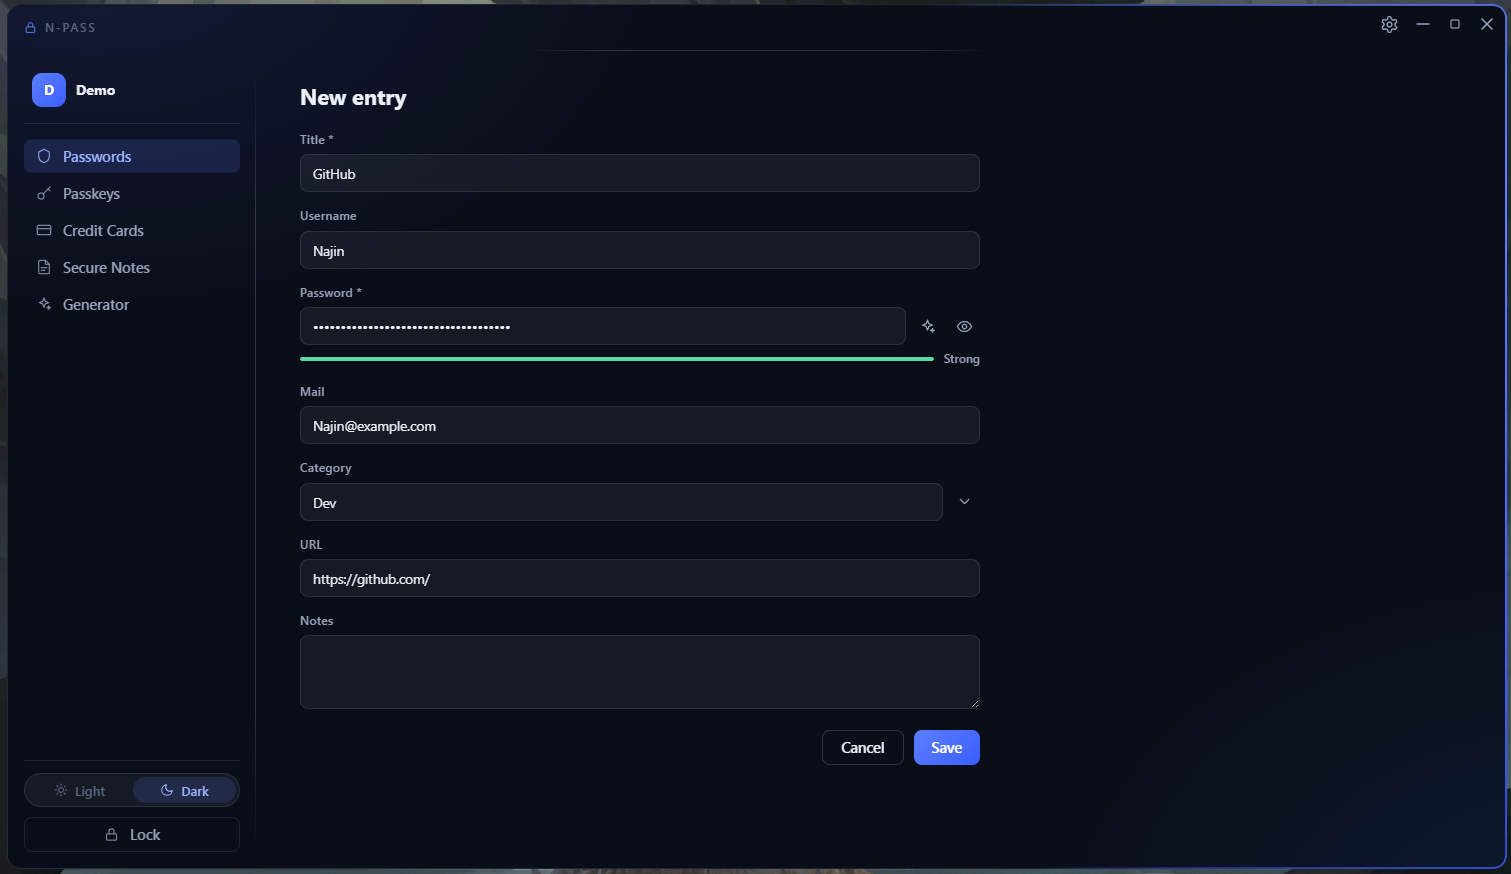
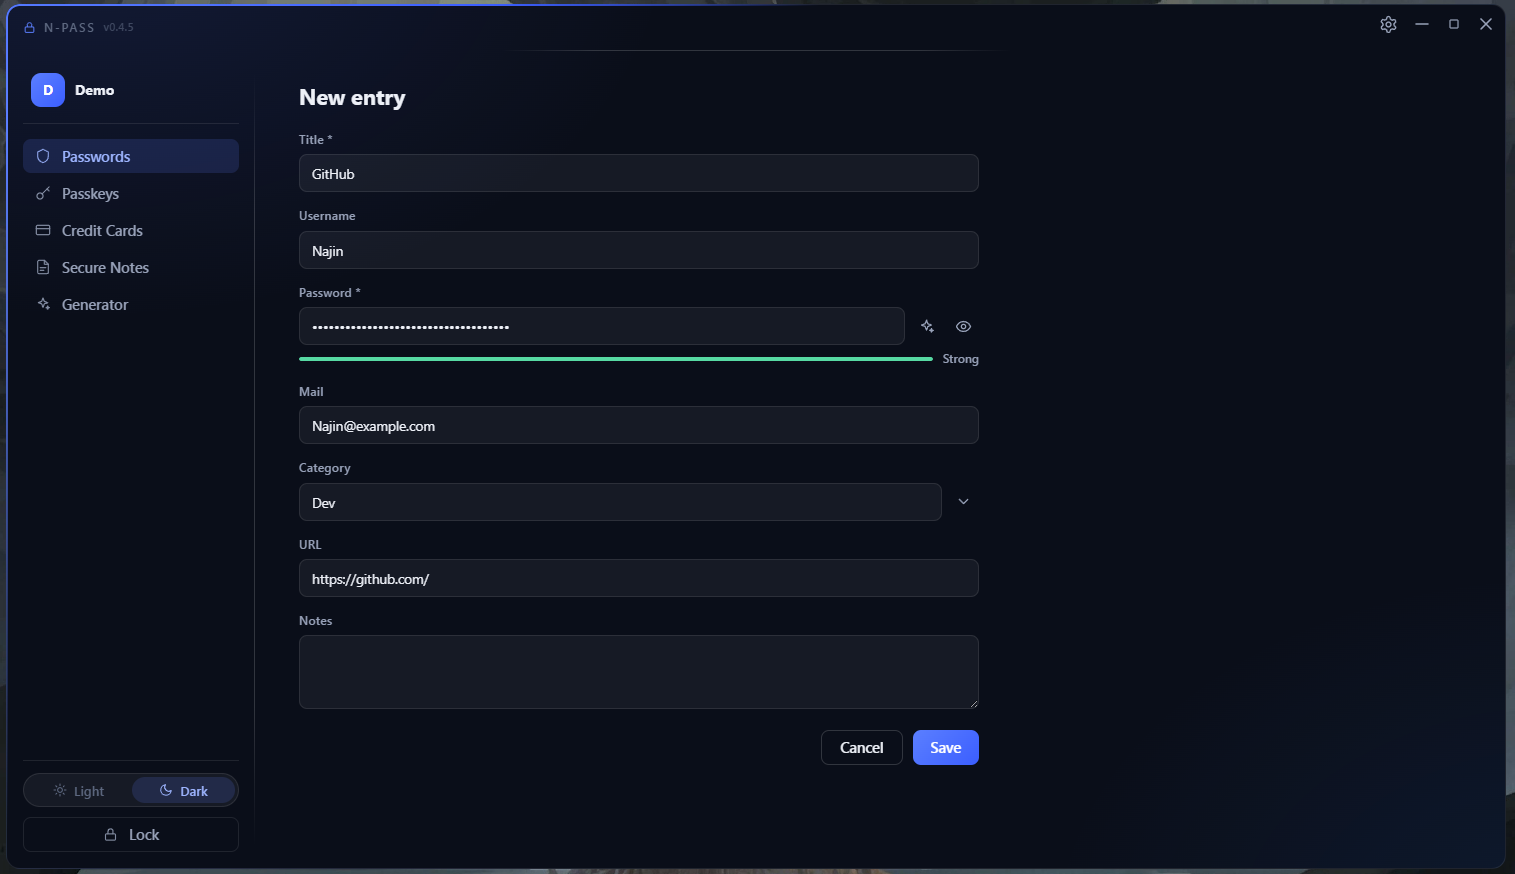
Show which build this is
The version now sits beside the name in the title bar and at the foot of
Settings. It is read from tauri.conf.json, the same place the installer
and the release take it from, so what the window claims cannot drift from
what was actually shipped.

Screenshots refreshed; the divider under the top bar is 10% wider.

diff --git a/src/screens/SettingsView.tsx b/src/screens/SettingsView.tsx
@@ -1,4 +1,5 @@
 import { useEffect, useState } from "react";
+import { useAppVersion } from "../lib/version";
 import { api, Settings } from "../api";
 import { Theme } from "../lib/theme";
 import { applyLang, currentLang, isLang, t, LANGUAGES } from "../lib/i18n";
@@ -136,7 +137,20 @@ export function SettingsView({ theme, onThemeChange }: Props) {
         <BackupSection settings={settings} onSave={(s) => void save(s)} />
 
         <ChangePassword />
+
+        <VersionRow />
       </div>
+    </div>
+  );
+}
+
+/** Which build this is — the same number as the release it came from. */
+function VersionRow() {
+  const version = useAppVersion();
+  return (
+    <div className="settings-row" style={{ cursor: "default" }}>
+      <div>{t("version")}</div>
+      <div className="muted">N-Pass {version}</div>
     </div>
   );
 }

diff --git a/src/Titlebar.tsx b/src/Titlebar.tsx
@@ -5,6 +5,7 @@
 import { getCurrentWindow } from "@tauri-apps/api/window";
 import { t } from "./lib/i18n";
 import { IconGear, IconLock, IconMinus, IconSquare, IconX } from "./lib/icons";
+import { useAppVersion } from "./lib/version";
 
 interface Props {
   /** Present only while a vault is open — shows the Settings button. */
@@ -13,12 +14,14 @@ interface Props {
 
 export function Titlebar({ onSettings }: Props) {
   const win = getCurrentWindow();
+  const version = useAppVersion();
 
   return (
     <div className="titlebar" data-tauri-drag-region>
       <span className="titlebar-title" data-tauri-drag-region>
         <IconLock size={13} />
         N-Pass
+        {version && <span className="titlebar-version">v{version}</span>}
       </span>
       <div className="titlebar-buttons">
         {onSettings && (

diff --git a/src/lib/version.ts b/src/lib/version.ts
@@ -1,0 +1,23 @@
+import { useEffect, useState } from "react";
+import { getVersion } from "@tauri-apps/api/app";
+
+// The version comes from tauri.conf.json, which is the same number the
+// installer and the release carry — so what the window shows can never
+// drift from what was actually shipped. Fetched once and cached, so every
+// place that displays it agrees and only one call is ever made.
+
+let cached: string | null = null;
+
+export function useAppVersion(): string {
+  const [version, setVersion] = useState(cached ?? "");
+
+  useEffect(() => {
+    if (cached !== null) return;
+    void getVersion().then((value) => {
+      cached = value;
+      setVersion(value);
+    });
+  }, []);
+
+  return version;
+}

diff --git a/src/App.css b/src/App.css
@@ -384,7 +384,7 @@ textarea.invalid {
   bottom: 0;
   left: 50%;
   transform: translateX(-50%);
-  width: 31%;
+  width: 34.1%;
   height: 1px;
   background: linear-gradient(
     to right,
@@ -408,6 +408,16 @@ textarea.invalid {
 
 .titlebar-title svg {
   color: var(--accent);
+}
+
+/* Quieter than the name it follows: there for whoever goes looking for it,
+   invisible to everyone else. */
+.titlebar-version {
+  font-size: 10.5px;
+  font-weight: 500;
+  letter-spacing: 0.04em;
+  text-transform: none;
+  opacity: 0.6;
 }
 
 /* Hug the top-right corner of the window. */

diff --git a/src/lib/i18n.ts b/src/lib/i18n.ts
@@ -187,6 +187,7 @@ const DICT = {
     "Вернуть размер и позицию окна по умолчанию",
     "Повернути розмір і позицію вікна за замовчуванням",
   ],
+  version: ["Version", "Версия", "Версія"],
   resetBtn: ["Reset", "Сбросить", "Скинути"],
   backupFolder: ["Backup folder", "Папка бэкапа", "Тека бекапу"],
   backupHint: [
